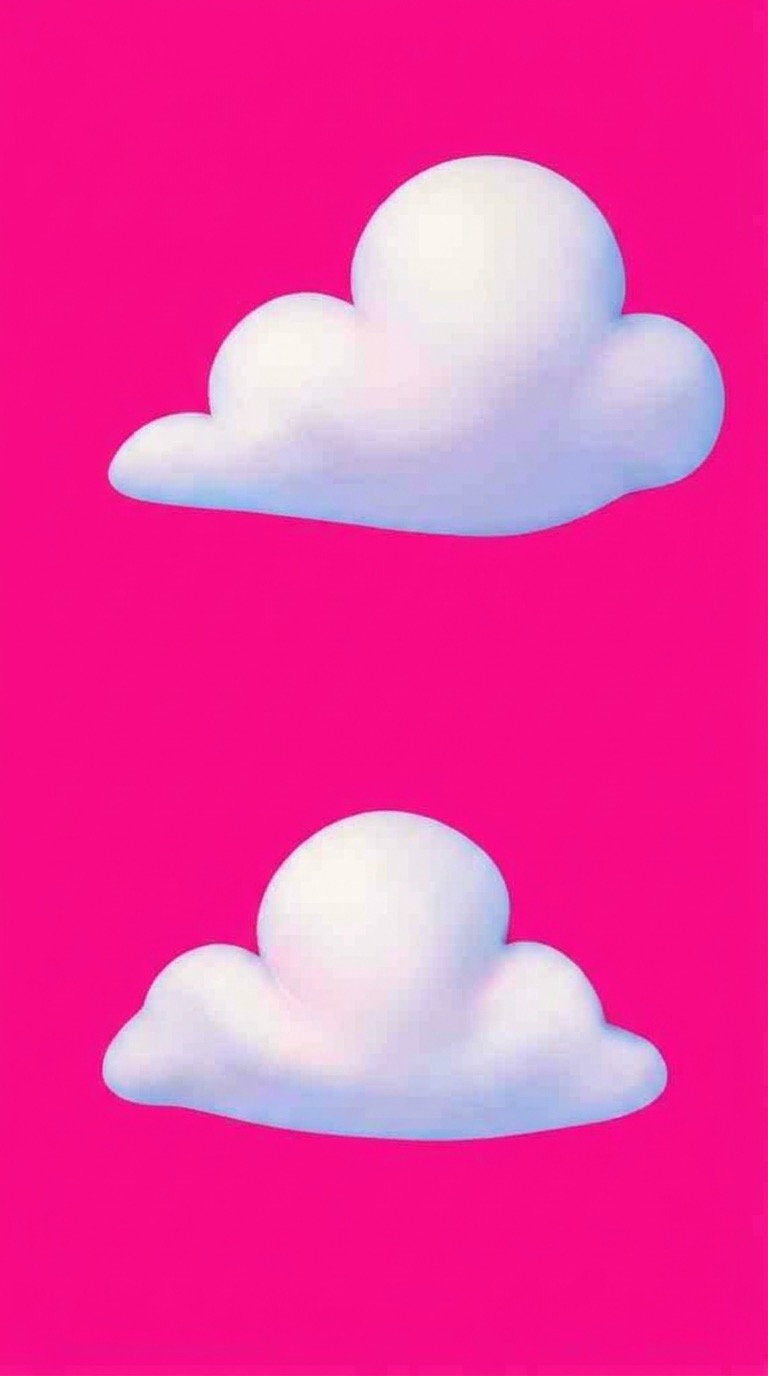
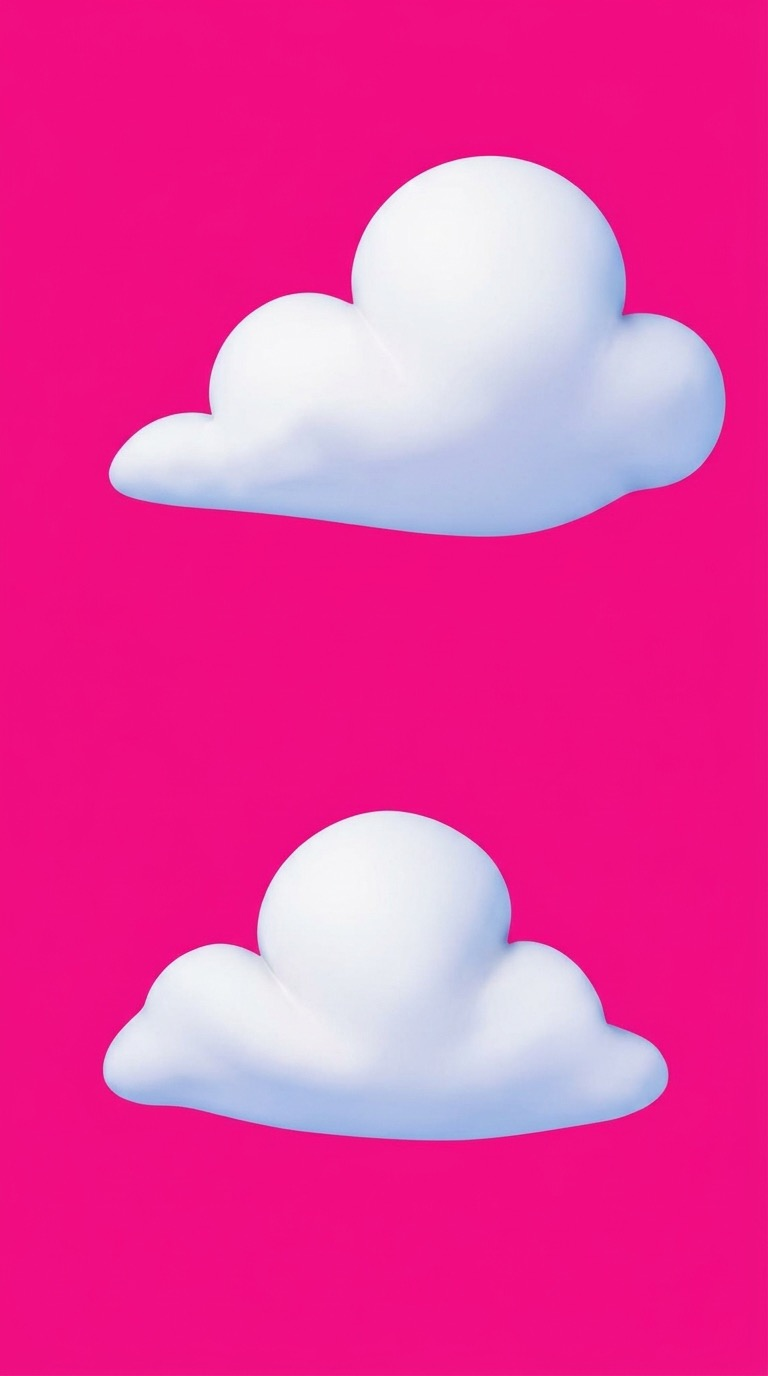
Redo day-cloud cutouts with edge color decontamination
The creator sent a replacement pair for the day-cloud shapes. This
source's anti-aliased edge blended real cloud color with the pink
chroma-key background, leaving a magenta fringe after the usual
threshold+erosion cutout. Fixed by unmixing partial-alpha edge pixels
against the background color before writing them out, rather than
keeping their raw (tinted) color.

Claude-Session: https://claude.ai/code/session_01QJhmBXxG8bP3KG6H3AZ1rh

diff --git a/mobile/README.md b/mobile/README.md
@@ -571,8 +571,18 @@ straightforward cutout by comparison to earlier ones in this file, no
 edge-hue issues this time.
 
 Clouds followed, now in day and golden-hour variants (two shapes each,
-cut from pink then cyan chroma-key sources -- no edge issues on either,
-per the creator "c'est pareil" for golden hour). Per the creator ("3 MAX
+cut from pink then cyan chroma-key sources, per the creator "c'est
+pareil" for golden hour). The creator later sent a replacement pair for
+the day shapes ("refait le jour avec eux") -- same pink chroma-key, but
+this time the cutout showed a thin magenta fringe along the edge: the
+source's anti-aliased boundary blends real cloud color with the pink
+background, so a pixel just inside the silhouette isn't pure cloud color
+even after erosion picks a clean interior seed. Fixed with edge color
+decontamination -- for any pixel with partial alpha, unmix it as
+`(pixel - (1-alpha)*background) / alpha` before writing it out, instead
+of keeping the source pixel's raw (background-tinted) color. Cheap
+enough to apply to every cutout going forward if the same fringe shows
+up again. Per the creator ("3 MAX
 change 1 jour sur deux y'en a deux et l'autre jour 3"), the count
 alternates daily between 2 and 3 rather than always showing the max --
 `lib/models/cloud_schedule.dart` (`CloudSchedule.countFor()`) keys this
